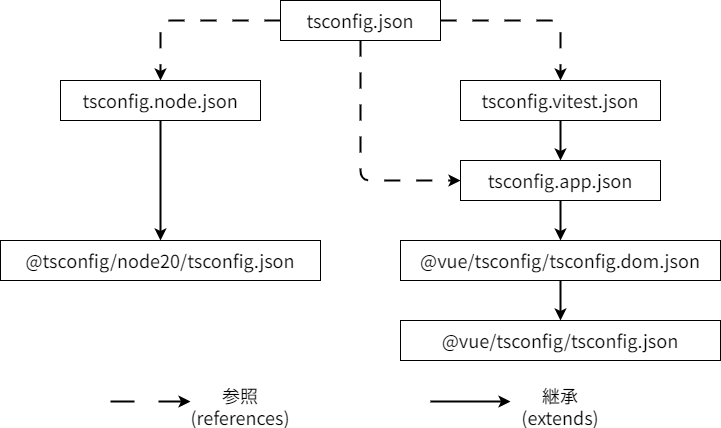
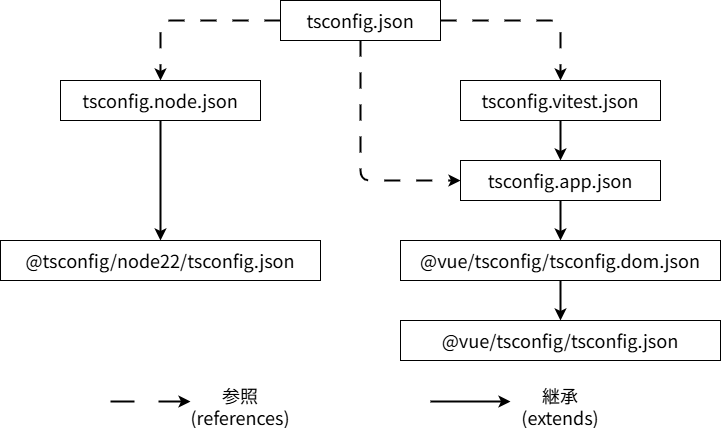
[Doc]typescript@5.8.3 にバージョンアップする (#2675)
* サンプルアプリに合わせてスクリプトを修正。

* べた書きされているコードをSnippetsを使用する形に修正。

* MockServiceWorkerの導入により不要になった説明文を削除。

* 不要な説明を削除。

* tsconfigの継承関係を表す図を修正。

* 図のnodeバージョンを修正。

diff --git a/documents/contents/guidebooks/how-to-develop/vue-js/project-settings.md b/documents/contents/guidebooks/how-to-develop/vue-js/project-settings.md
@@ -40,7 +40,6 @@ Project Reference 機能については [Project References :material-open-in-ne
 
 なお、 `tsconfig.app.json` `tsconfig.node.json` には npm パッケージで提供されている `tsconfig` を継承するように設定されているため、継承元の設定値が存在します。
 `extends` に定義されている継承元ファイルを参照して実際の設定値を確認できます。
-また、 `references` で参照されているファイルでは `compilerOptions.composite` を `true` に設定する必要があります。
 
 ![tsconfigの継承関係](../../../images/guidebooks/how-to-develop/vue-js/vue-tsconfig-light.png#only-light){ loading=lazy }
 ![tsconfigの継承関係](../../../images/guidebooks/how-to-develop/vue-js/vue-tsconfig-dark.png#only-dark){ loading=lazy }
@@ -50,76 +49,25 @@ Project Reference 機能については [Project References :material-open-in-ne
 ??? note "tsconfig.json の設定例"
 
     ``` json title="tsconfig.json"
-    {
-      "files": [],
-      "references": [
-        {
-          "path": "./tsconfig.node.json"
-        },
-        {
-          "path": "./tsconfig.app.json"
-        },
-        {
-          "path": "./tsconfig.vitest.json"
-        }
-      ],
-      "compilerOptions": {
-        "module": "NodeNext"
-      }
-    }
+    https://github.com/AlesInfiny/maia/blob/main/samples/web-csr/dressca-frontend/consumer/tsconfig.json
     ```
 
 ??? note "tsconfig.app.json の設定例"
 
     ``` json title="tsconfig.app.json"
-    {
-      "extends": "@vue/tsconfig/tsconfig.dom.json",
-      "include": ["env.d.ts", "src/**/*", "src/**/*.vue", "mock/**/*"],
-      "exclude": ["src/**/__tests__/*"],
-      "compilerOptions": {
-        "composite": true,
-        "tsBuildInfoFile": "./node_modules/.tmp/tsconfig.app.tsbuildinfo",
-        "baseUrl": ".",
-        "paths": {
-          "@/*": ["./src/*"]
-        }
-      }
-    }
+    https://github.com/AlesInfiny/maia/blob/main/samples/web-csr/dressca-frontend/consumer/tsconfig.app.json
     ```
 
 ??? note "tsconfig.node.json の設定例"
 
-    AlesInfiny Maia サンプルアプリでは、フロントエンドアプリを mock モードでビルドする際のソースコードを `mock` フォルダー配下に含みます。
-    本来 tsconfig.node.json は設定ファイルとして読み込む対象を定義すべきですが、vite.config.ts の参照先で `mock` フォルダー内のファイルを参照している都合上、 `"mock/**/*"` を include の対象にしています。
-
-    ``` json title="tsconfig.node.json" hl_lines="4"
-    {
-      "extends": "@tsconfig/node20/tsconfig.json",
-      "include": ["vite.config.*", "vitest.config.*", "cypress.config.*"],
-      "compilerOptions": {
-        "composite": true,
-        "noEmit": true,
-        "tsBuildInfoFile": "./node_modules/.tmp/tsconfig.node.tsbuildinfo",
-        "module": "ESNext",
-        "moduleResolution": "Bundler",
-        "types": ["node"]
-      }
-    }
+    ``` json title="tsconfig.node.json"
+    https://github.com/AlesInfiny/maia/blob/main/samples/web-csr/dressca-frontend/consumer/tsconfig.node.json
     ```
 
 ??? note "tsconfig.vitest.json の設定例"
 
     ``` json title="tsconfig.vitest.json"
-    {
-      "extends": "./tsconfig.app.json",
-      "exclude": [],
-      "compilerOptions": {
-        "composite": true,
-        "tsBuildInfoFile": "./node_modules/.tmp/tsconfig.vitest.tsbuildinfo",
-        "lib": [],
-        "types": ["node", "jsdom"]
-      }
-    }
+    https://github.com/AlesInfiny/maia/blob/main/samples/web-csr/dressca-frontend/consumer/tsconfig.vitest.json
     ```
 
 - `compilerOptions.noEmit`
@@ -136,7 +84,7 @@ Project Reference 機能については [Project References :material-open-in-ne
           "scripts": {
             "build": "run-p type-check \"build-only {@}\" --",
             "build-only": "vite build",
-            "type-check": "vue-tsc --build --force"
+            "type-check": "vue-tsc --build"
           }
         }
         ```
